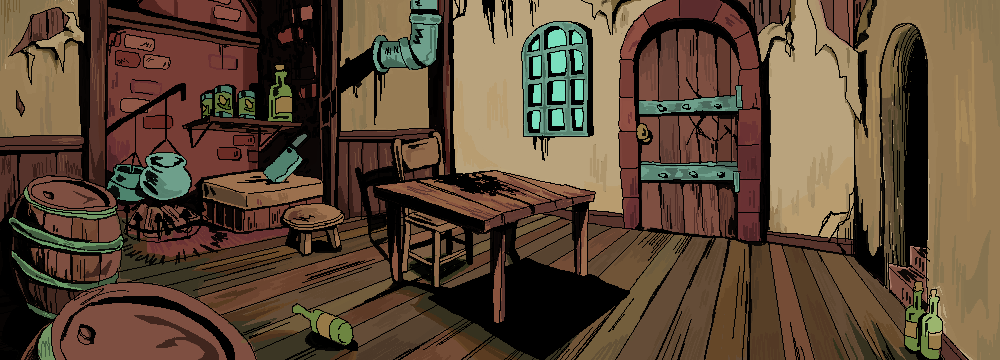
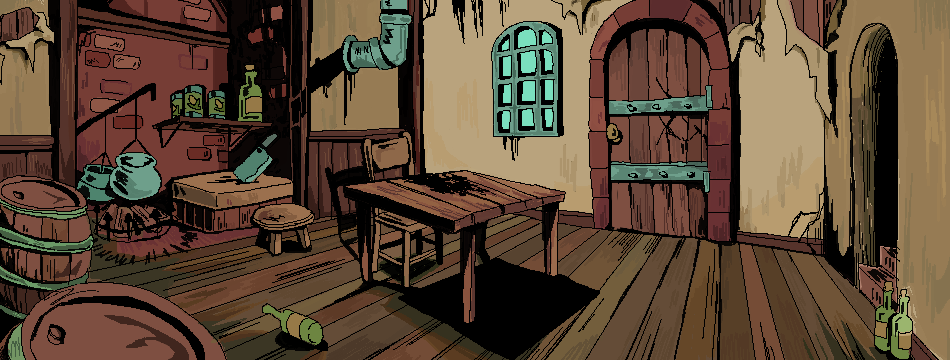
scenetweaks

diff --git a/Assets/Scripts/BurialScript.cs b/Assets/Scripts/BurialScript.cs
@@ -38,6 +38,19 @@ public class BurialScript : MonoBehaviour
         UpdateTrack(ambience, bgLoop1, 0.65f, 1);
         // Update track 2
         UpdateTrack(ambience, bgLoop2, 0.3f, 2);
+
+        bool isDay2 = GameState.Get<int>("day") == 2;
+
+        // Day 2: Rain has uncovered the grave
+        if (isDay2 && GameState.Get<bool>("has_buried") && !GameState.Get<bool>("grave_inspected"))
+        {
+            Destroy(shovel);
+            background.sprite = backgroundRevealedSprite;
+            GameState.Set("grave_revealed", true);
+            DialogueManager.ShowDialogue(miscObjectClick.getDialogue("burial/grave_uncovered"));
+            return;
+        }
+
         if (GameState.Get<bool>("has_dug"))
         {
             Destroy(shovel);
@@ -49,9 +62,7 @@ public class BurialScript : MonoBehaviour
             {
                 background.sprite = backgroundDugSprite;
             }
-
         }
-
     }
     
     private IEnumerator PlaySoundDelayedRoutine(AudioClip sfx, float volume, bool loop, float delay)
@@ -82,6 +93,33 @@ public class BurialScript : MonoBehaviour
     
     public void ClickMound()
     {
+        // Day 2: Re-bury after rain uncovered the grave
+        if (GameState.Get<bool>("grave_revealed", false))
+        {
+            GameState.Set("grave_revealed", false);
+            GameState.Set("grave_inspected", true);
+            GameState.Set("hand_cut", true);
+
+            black.SetActive(true);
+            StartCoroutine(PlaySoundDelayedRoutine(shovelClip, 0.6f, false, 0.5f));
+            FadeTo(black, 1, 1.2f, () =>
+            {
+                if (background != null && backgroundCoveredSprite != null)
+                {
+                    background.sprite = backgroundCoveredSprite;
+                }
+                FadeTo(black, 1, 1.75f, () =>
+                {
+                    FadeTo(black, 0, 0.85f, () =>
+                    {
+                        black.SetActive(false);
+                        DialogueManager.ShowDialogue(miscObjectClick.getDialogue("burial/rebury"));
+                    });
+                });
+            });
+            return;
+        }
+
         if (!GameState.Get<bool>("has_dug"))
         {
             // Haven't dug up the grave yet, do that.

diff --git a/Assets/Scripts/sceneScripts/HandleKitchenBackground.cs b/Assets/Scripts/sceneScripts/HandleKitchenBackground.cs
@@ -1,0 +1,32 @@
+using UnityEngine;
+
+public class HandleKitchenBackground : MonoBehaviour
+{
+    [SerializeField] private SpriteRenderer background;
+    [SerializeField] private Sprite dark_bg;
+    [SerializeField] private Sprite stained_bg;
+    [SerializeField] private Sprite stained_dark_bg;
+
+    // Start is called once before the first execution of Update after the MonoBehaviour  is created
+    void Start()
+    {
+        if (GameState.Get<bool>("is_nighttime", false))
+        {
+            if (GameState.Get<int>("day") >= 2) {
+                background.sprite = stained_dark_bg;
+            } else {
+                background.sprite = dark_bg;
+            }
+        }
+        else if (GameState.Get<int>("day") >= 2)
+        {
+            background.sprite = stained_bg;
+        }
+    }
+
+    // Update is called once per frame
+    void Update()
+    {
+        
+    }
+}

diff --git a/Assets/Scripts/oneoffs/BurialActivate.cs b/Assets/Scripts/oneoffs/BurialActivate.cs
@@ -7,7 +7,14 @@ public class BurialActivate : MonoBehaviour
     {
         if (!GameState.Get<bool>("do_burial", false))
         {
-            gameObject.SetActive(false);
+            if (GameState.Get<int>("day", 1) == 2)
+            {
+                if (GameState.Get<bool>("finished_burial", false)) {
+                    gameObject.SetActive(false);
+                }
+            } else {
+                gameObject.SetActive(false);
+            }
         }
     }
 

diff --git a/Assets/Scripts/sceneScripts/StoveScript.cs b/Assets/Scripts/sceneScripts/StoveScript.cs
@@ -153,7 +153,12 @@ public class StoveScript : MonoBehaviour
         if (GameState.Get<bool>("fish_clicked"))
         {
             // Already clicked
-            DialogueManager.ShowDialogue(miscObjectClick.getDialogue("stove/fish_already_added"));
+            bool isDay1 = GameState.Get<int>("day") == 1;
+            if (isDay1) {
+                DialogueManager.ShowDialogue(miscObjectClick.getDialogue("stove/fish_already_added_day2"));
+            } else {
+                DialogueManager.ShowDialogue(miscObjectClick.getDialogue("stove/fish_not_want"));
+            }
         }
         else
         {

diff --git a/Assets/Scripts/Navigation.cs b/Assets/Scripts/Navigation.cs
@@ -103,7 +103,11 @@ public class Navigation : MonoBehaviour
 
     public void GoToBurial()
     {
-        if (!GameState.Get("do_burial", false))
+        // Day 2: Allow access to inspect the uncovered grave
+        bool isDay2 = GameState.Get<int>("day") == 2;
+        bool graveNeedsInspection = isDay2 && GameState.Get<bool>("has_buried") && !GameState.Get<bool>("grave_inspected");
+
+        if (!GameState.Get("do_burial", false) && !graveNeedsInspection)
         {
             DialogueManager.ShowDialogue(getDialog("outdoors/resting_place"));
             return;

diff --git a/Assets/Scripts/ChoiceManager.cs b/Assets/Scripts/ChoiceManager.cs
@@ -22,7 +22,6 @@ public class ChoiceManager : MonoBehaviour
 
     private void Awake()
     {
-        Debug.Log("swake ");
         SubscribeToMessages();
         HookupButtons();
     }
@@ -80,6 +79,7 @@ public class ChoiceManager : MonoBehaviour
         // [1] Action
 
         Button3.SetActive(true);
+        ClickBlocker.SetActive(true);
 
         if (args.Length < 2)
         {
@@ -103,6 +103,7 @@ public class ChoiceManager : MonoBehaviour
 
         Button1.SetActive(true);
         Button2.SetActive(true);
+        ClickBlocker.SetActive(true);
 
         if (args.Length < 4)
         {
@@ -133,6 +134,7 @@ public class ChoiceManager : MonoBehaviour
         Button1.SetActive(true);
         Button2.SetActive(true);
         Button3.SetActive(true);
+        ClickBlocker.SetActive(true);
 
         if (args.Length < 6)
         {

diff --git a/Assets/Scripts/MiscObjectClick.cs b/Assets/Scripts/MiscObjectClick.cs
@@ -315,8 +315,6 @@ public class MiscObjectClick : MonoBehaviour
             (Action)(() =>
             {
                 // Make sanity go up
-                MessageBus.Instance.Publish("FloatText", 0, -0.4f, "+SANITY", "green");
-                MessageBus.Instance.Publish("PlusSanity", 1);
             }),
             (Action)(() =>
             {